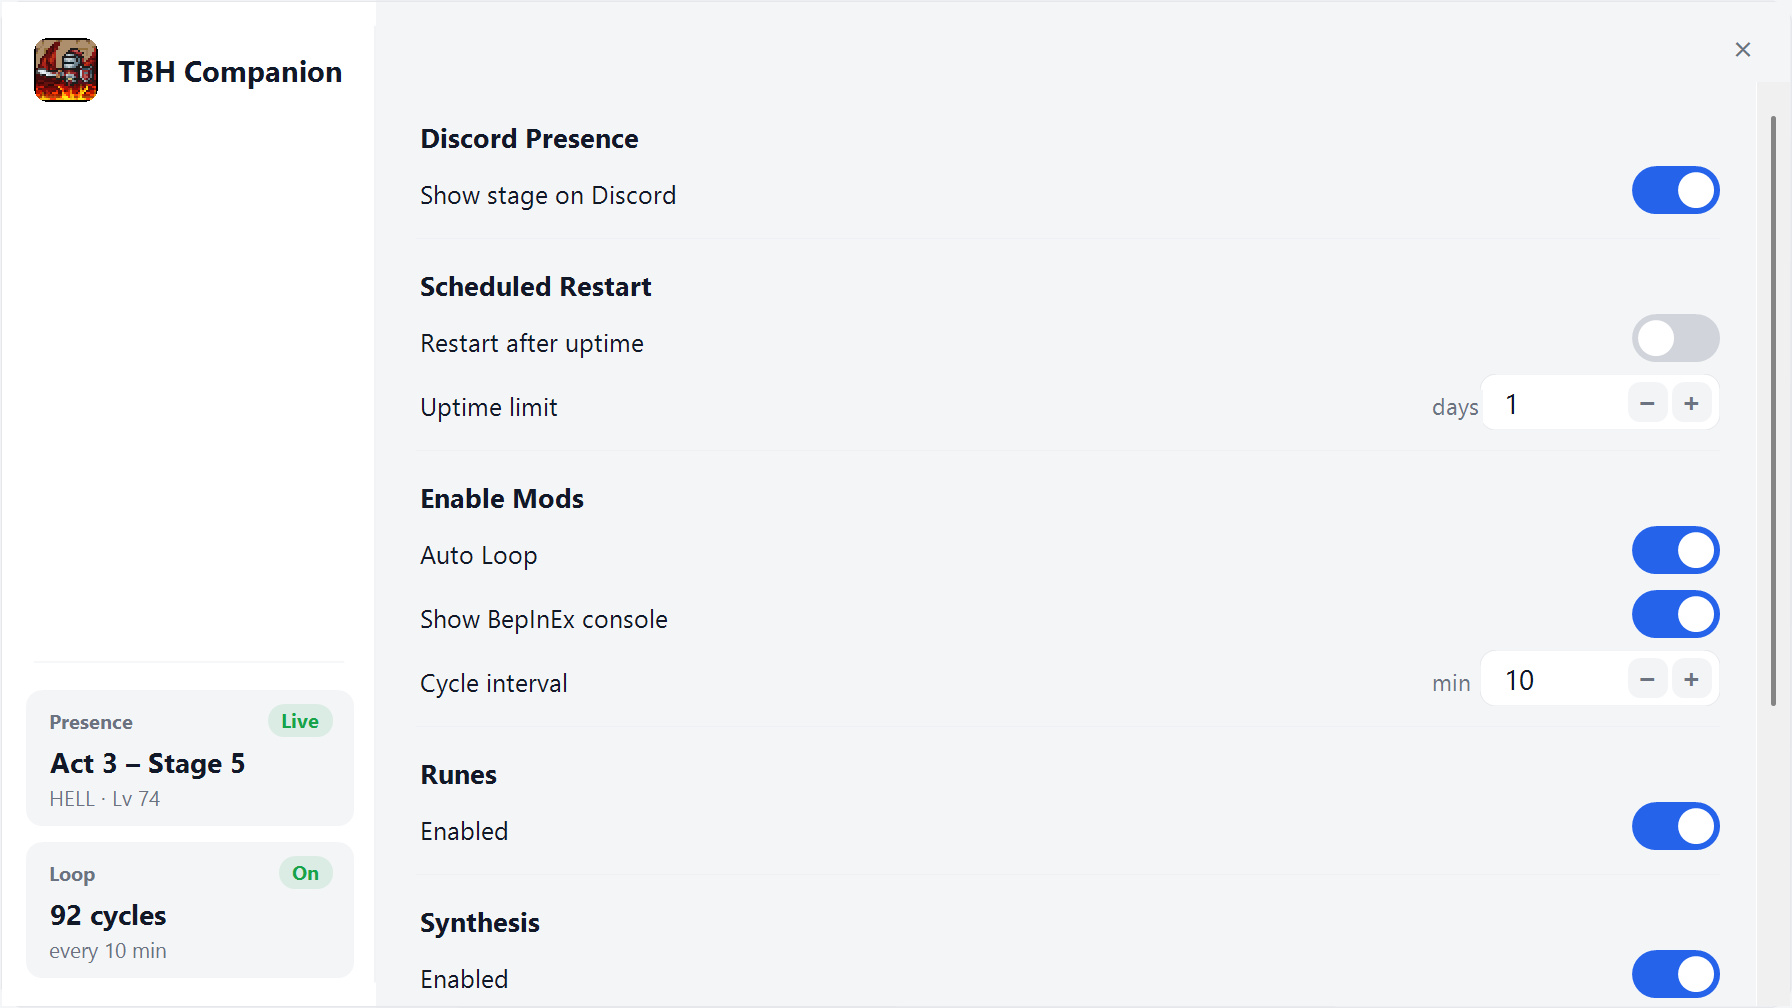
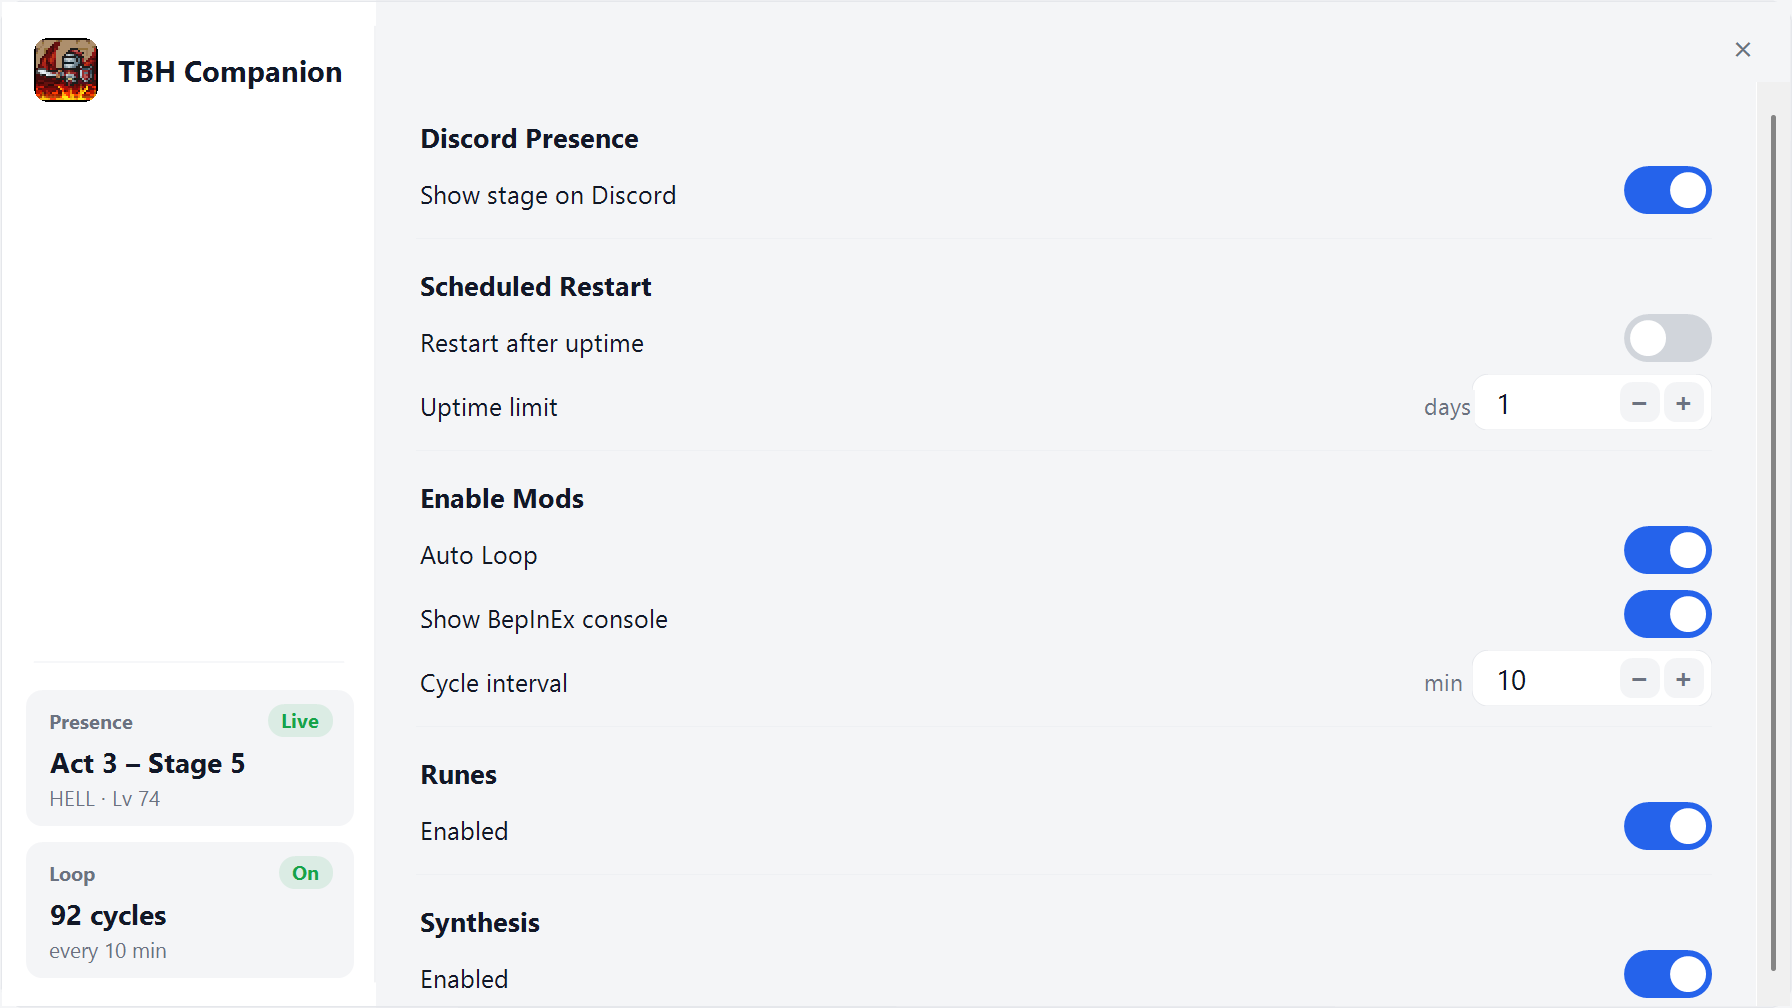
fix(companion): use manual vertical scrollbar in settings pane
Replace AutoScroll, which was inventing a horizontal bar when the vertical one appeared.

diff --git a/src/StatusForm.cs b/src/StatusForm.cs
@@ -40,7 +40,9 @@ namespace TbhCompanion
         // 16:9 window; right pane scrolls when settings exceed the viewport.
         const int W = 896, SideW = 188, H = 504;
         const int PadX = 20;
-        const int ScrollBarW = 16; // reserve so controls aren't covered when the bar shows
+        // Reserve a full system scrollbar width so the vertical bar never pushes
+        // content sideways (that is what triggers the unwanted horizontal bar).
+        const int ScrollBarW = 20;
         const int MainW = W - SideW - PadX * 2 - ScrollBarW;
         const int ContentRight = PadX + MainW;
         const int TopChrome = 40; // fixed close/drag strip above the scroll area
@@ -71,7 +73,8 @@ namespace TbhCompanion
         float BorderWidth() { return Math.Max(1f, _s); }
 
         LiveStrip _live;
-        Panel _side, _main, _scroll;
+        Panel _side, _main, _scroll, _content;
+        VScrollBar _vbar;
         Toggle _presenceToggle;
         Toggle _autoRestart;
         Toggle _autoLoop, _enableSynth, _autoRune, _showConsole;
@@ -204,23 +207,40 @@ namespace TbhCompanion
             Controls.Add(_main);
 
             // Scrollable settings body under a fixed close/drag chrome strip.
-            // Vertical only — horizontal bar is suppressed (see VertScrollPanel).
-            _scroll = new VertScrollPanel
+            // Manual VScrollBar (not AutoScroll) — AutoScroll also creates an
+            // unwanted horizontal bar when the vertical one narrows the client.
+            _scroll = new Panel
             {
                 BackColor = Theme.FormBg,
                 Location = new Point(0, Sc(TopChrome)),
-                Size = new Size(_main.Width, _main.Height - Sc(TopChrome)),
-                AutoScroll = true
+                Size = new Size(_main.Width, _main.Height - Sc(TopChrome))
             };
             _scroll.MouseDown += delegate(object s, MouseEventArgs e) { if (e.Button == MouseButtons.Left) BeginDrag(e.Location); };
             _scroll.MouseMove += MainMouseMove;
             _scroll.MouseUp += delegate { _dragging = false; };
             _main.Controls.Add(_scroll);
 
+            _vbar = new VScrollBar { Visible = false, TabStop = false };
+            _vbar.Scroll += delegate { SyncContentScroll(); };
+            _scroll.Controls.Add(_vbar);
+
+            _content = new Panel
+            {
+                BackColor = Theme.FormBg,
+                Location = Point.Empty,
+                Size = new Size(_scroll.Width, 1)
+            };
+            _content.MouseDown += delegate(object s, MouseEventArgs e) { if (e.Button == MouseButtons.Left) BeginDrag(e.Location); };
+            _content.MouseMove += MainMouseMove;
+            _content.MouseUp += delegate { _dragging = false; };
+            _scroll.Controls.Add(_content);
+
             if (Build.Synth) BuildSettings();
             else BuildPresenceOnly();
 
+            FinishContent();
             WireMouseWheel(_scroll);
+            WireMouseWheel(_content);
         }
 
         void PaintMain(object sender, PaintEventArgs e)
@@ -240,7 +260,7 @@ namespace TbhCompanion
             if (e.Y <= Sc(TopChrome)) BeginDrag(e.Location);
         }
 
-        // Custom-painted children often swallow wheel events; forward them to the scroll panel.
+        // Custom-painted children often swallow wheel events; forward them vertically.
         void WireMouseWheel(Control root)
         {
             root.MouseWheel += OnScrollWheel;
@@ -249,17 +269,67 @@ namespace TbhCompanion
 
         void OnScrollWheel(object sender, MouseEventArgs e)
         {
-            if (_scroll == null || !_scroll.VerticalScroll.Visible) return;
+            if (_vbar == null || !_vbar.Visible) return;
             int step = SystemInformation.MouseWheelScrollLines * Sc(18);
             if (step < 1) step = Sc(18);
-            int y = -_scroll.AutoScrollPosition.Y - Math.Sign(e.Delta) * step;
-            if (y < 0) y = 0;
-            _scroll.AutoScrollPosition = new Point(0, y);
+            int max = VScrollMax();
+            int v = _vbar.Value - Math.Sign(e.Delta) * step;
+            if (v < 0) v = 0;
+            if (v > max) v = max;
+            _vbar.Value = v;
+            SyncContentScroll();
             var he = e as HandledMouseEventArgs;
             if (he != null) he.Handled = true;
         }
 
-        void AddContent(Control c) { _scroll.Controls.Add(c); }
+        void AddContent(Control c) { _content.Controls.Add(c); }
+
+        // Size the inner panel to its children and wire the vertical scrollbar only.
+        void FinishContent()
+        {
+            int bottom = 0;
+            foreach (Control c in _content.Controls)
+            {
+                int b = c.Bottom;
+                if (b > bottom) bottom = b;
+            }
+            int contentH = bottom + Sc(8);
+            int viewH = _scroll.ClientSize.Height;
+            int barW = SystemInformation.VerticalScrollBarWidth;
+            bool needBar = contentH > viewH;
+            int contentW = needBar ? Math.Max(1, _scroll.ClientSize.Width - barW) : _scroll.ClientSize.Width;
+
+            _content.Size = new Size(contentW, contentH);
+            _content.Location = new Point(0, 0);
+
+            if (!needBar)
+            {
+                _vbar.Visible = false;
+                _vbar.Value = 0;
+                return;
+            }
+
+            _vbar.SetBounds(_scroll.ClientSize.Width - barW, 0, barW, viewH);
+            _vbar.Minimum = 0;
+            _vbar.LargeChange = Math.Max(1, viewH);
+            _vbar.SmallChange = Math.Max(1, Sc(24));
+            // WinForms: usable range is Maximum - LargeChange + 1.
+            _vbar.Maximum = Math.Max(0, contentH - viewH) + _vbar.LargeChange - 1;
+            _vbar.Value = 0;
+            _vbar.Visible = true;
+            _scroll.Controls.SetChildIndex(_vbar, 0);
+        }
+
+        int VScrollMax()
+        {
+            return Math.Max(0, _vbar.Maximum - _vbar.LargeChange + 1);
+        }
+
+        void SyncContentScroll()
+        {
+            if (_content == null || _vbar == null) return;
+            _content.Top = -_vbar.Value;
+        }
 
         // Keeps the last row clear of the bottom edge / scrollbar corner.
         void EndContent(int y)
@@ -894,50 +964,6 @@ namespace TbhCompanion
             for (int i = 0; i < Recipes.Length; i++)
                 if (Recipes[i].Lo == desiredLevel) return i;
             return 0;
-        }
-    }
-
-    // AutoScroll panel that never shows a horizontal bar. WinForms otherwise adds
-    // one when the vertical scrollbar narrows the client and a child clips by a
-    // few pixels (or when focus-scroll shifts X).
-    sealed class VertScrollPanel : Panel
-    {
-        public VertScrollPanel()
-        {
-            AutoScroll = true;
-            SetStyle(ControlStyles.OptimizedDoubleBuffer | ControlStyles.AllPaintingInWmPaint, true);
-        }
-
-        protected override Point ScrollToControl(Control activeControl)
-        {
-            // Keep X pinned; only allow vertical auto-scroll-into-view.
-            var pt = base.ScrollToControl(activeControl);
-            return new Point(0, pt.Y);
-        }
-
-        protected override void OnLayout(LayoutEventArgs levent)
-        {
-            base.OnLayout(levent);
-            SuppressHorizontal();
-        }
-
-        protected override void OnSizeChanged(EventArgs e)
-        {
-            base.OnSizeChanged(e);
-            SuppressHorizontal();
-        }
-
-        void SuppressHorizontal()
-        {
-            if (HorizontalScroll.Visible || HorizontalScroll.Enabled || HorizontalScroll.Value != 0)
-            {
-                HorizontalScroll.Value = 0;
-                HorizontalScroll.Enabled = false;
-                HorizontalScroll.Visible = false;
-            }
-            // Cap min-size width so AutoScroll stops requesting HScroll.
-            if (AutoScrollMinSize.Width != 0)
-                AutoScrollMinSize = new Size(0, AutoScrollMinSize.Height);
         }
     }
 }